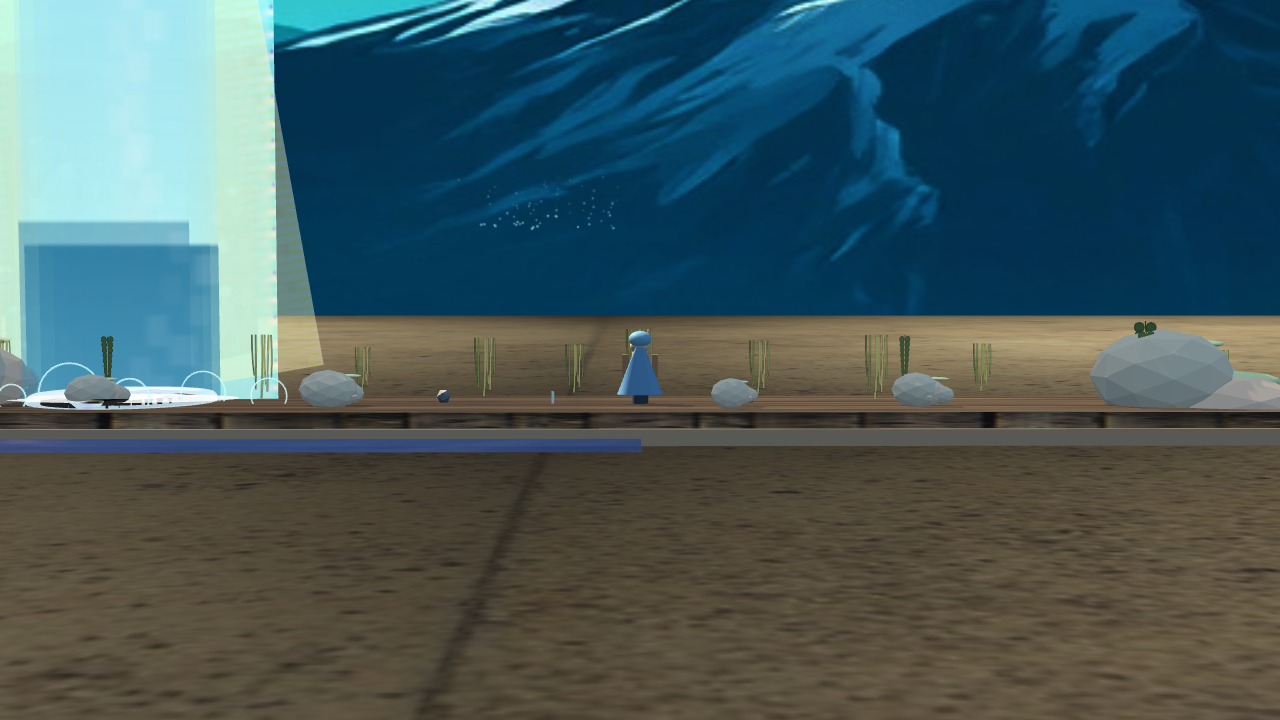
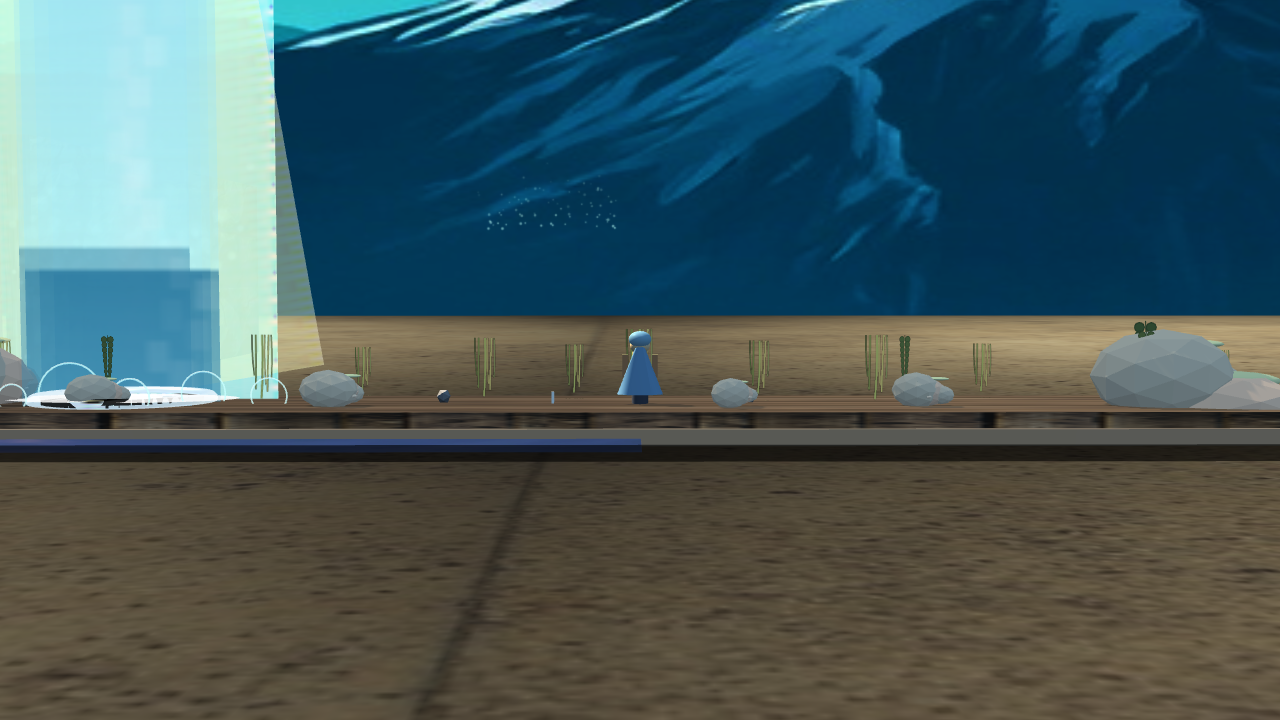
M0.7.1.4 Physica: cornisa contact shadow procedural (ancla visual cornisa al suelo)

Changed region(s): [[0.0, 0.6111, 1.0, 0.6417], [0.0, 0.3056, 0.1875, 0.3972]]

diff --git a/src/experiences/physica/scenes/cascadeScene.ts b/src/experiences/physica/scenes/cascadeScene.ts
@@ -414,6 +414,35 @@ export function buildCascadeScene(ctx: CascadeSceneContext): CascadeSceneEntitie
   cornisaBanda.material = makePbr('cornisa-banda', '#3a2e22', { roughness: 1 });
   cornisaBanda.position.set(0, -0.55, 2.2);
   cornisaBanda.receiveShadows = true;
+  /* M0.7.1.4 — contact shadow del cornisa. Una elipse oscura translúcida
+     en el suelo, justo bajo el plank, ancla visualmente la cornisa al
+     terreno y mata la sensación de "sticker flotante" que el audit
+     M0.7 marcó. Sin `receiveShadows` real-time (Harvok no genera shadow
+     maps para esta superficie), usamos un sprite procedural con un
+     gradiente radial. */
+  const cornisaShadowCanvas = document.createElement('canvas');
+  cornisaShadowCanvas.width = 256; cornisaShadowCanvas.height = 64;
+  {
+    const sc = cornisaShadowCanvas.getContext('2d')!;
+    const sg = sc.createRadialGradient(128, 32, 2, 128, 32, 120);
+    sg.addColorStop(0, 'rgba(0,0,0,0.55)');
+    sg.addColorStop(0.5, 'rgba(0,0,0,0.32)');
+    sg.addColorStop(1, 'rgba(0,0,0,0)');
+    sc.fillStyle = sg;
+    sc.fillRect(0, 0, 256, 64);
+  }
+  const cornisaShadowTex = new BABYLON.Texture(cornisaShadowCanvas.toDataURL(), scene, false, false, BABYLON.Texture.BILINEAR_SAMPLINGMODE);
+  cornisaShadowTex.hasAlpha = true;
+  textures.push(cornisaShadowTex);
+  const cornisaShadowMat = alphaStandardMat('cornisa-contact-shadow', '#000000', 0.6, '#000000');
+  cornisaShadowMat.diffuseTexture = cornisaShadowTex;
+  cornisaShadowMat.emissiveTexture = cornisaShadowTex;
+  cornisaShadowMat.emissiveColor = new BABYLON.Color3(0, 0, 0);
+  cornisaShadowMat.diffuseColor = new BABYLON.Color3(0, 0, 0);
+  cornisaShadowMat.disableLighting = true;
+  const cornisaShadow = mesh(BABYLON.MeshBuilder.CreateGround('cornisa-contact-shadow', { width: 40, height: 8 }, scene));
+  cornisaShadow.material = cornisaShadowMat;
+  cornisaShadow.position.set(0, -0.68, 1.5);  // un poco más alto que groundExt (-0.71) para evitar z-fighting
   // detalle de "saliente" a la izquierda: la cornisa se quiebra en un
   // afloramiento rocoso, da silueta interesante al horizonte.
   const salienteGeo = mesh(BABYLON.MeshBuilder.CreateIcoSphere('saliente-rocoso', { radius: 1.6, subdivisions: 2, flat: true }, scene));
